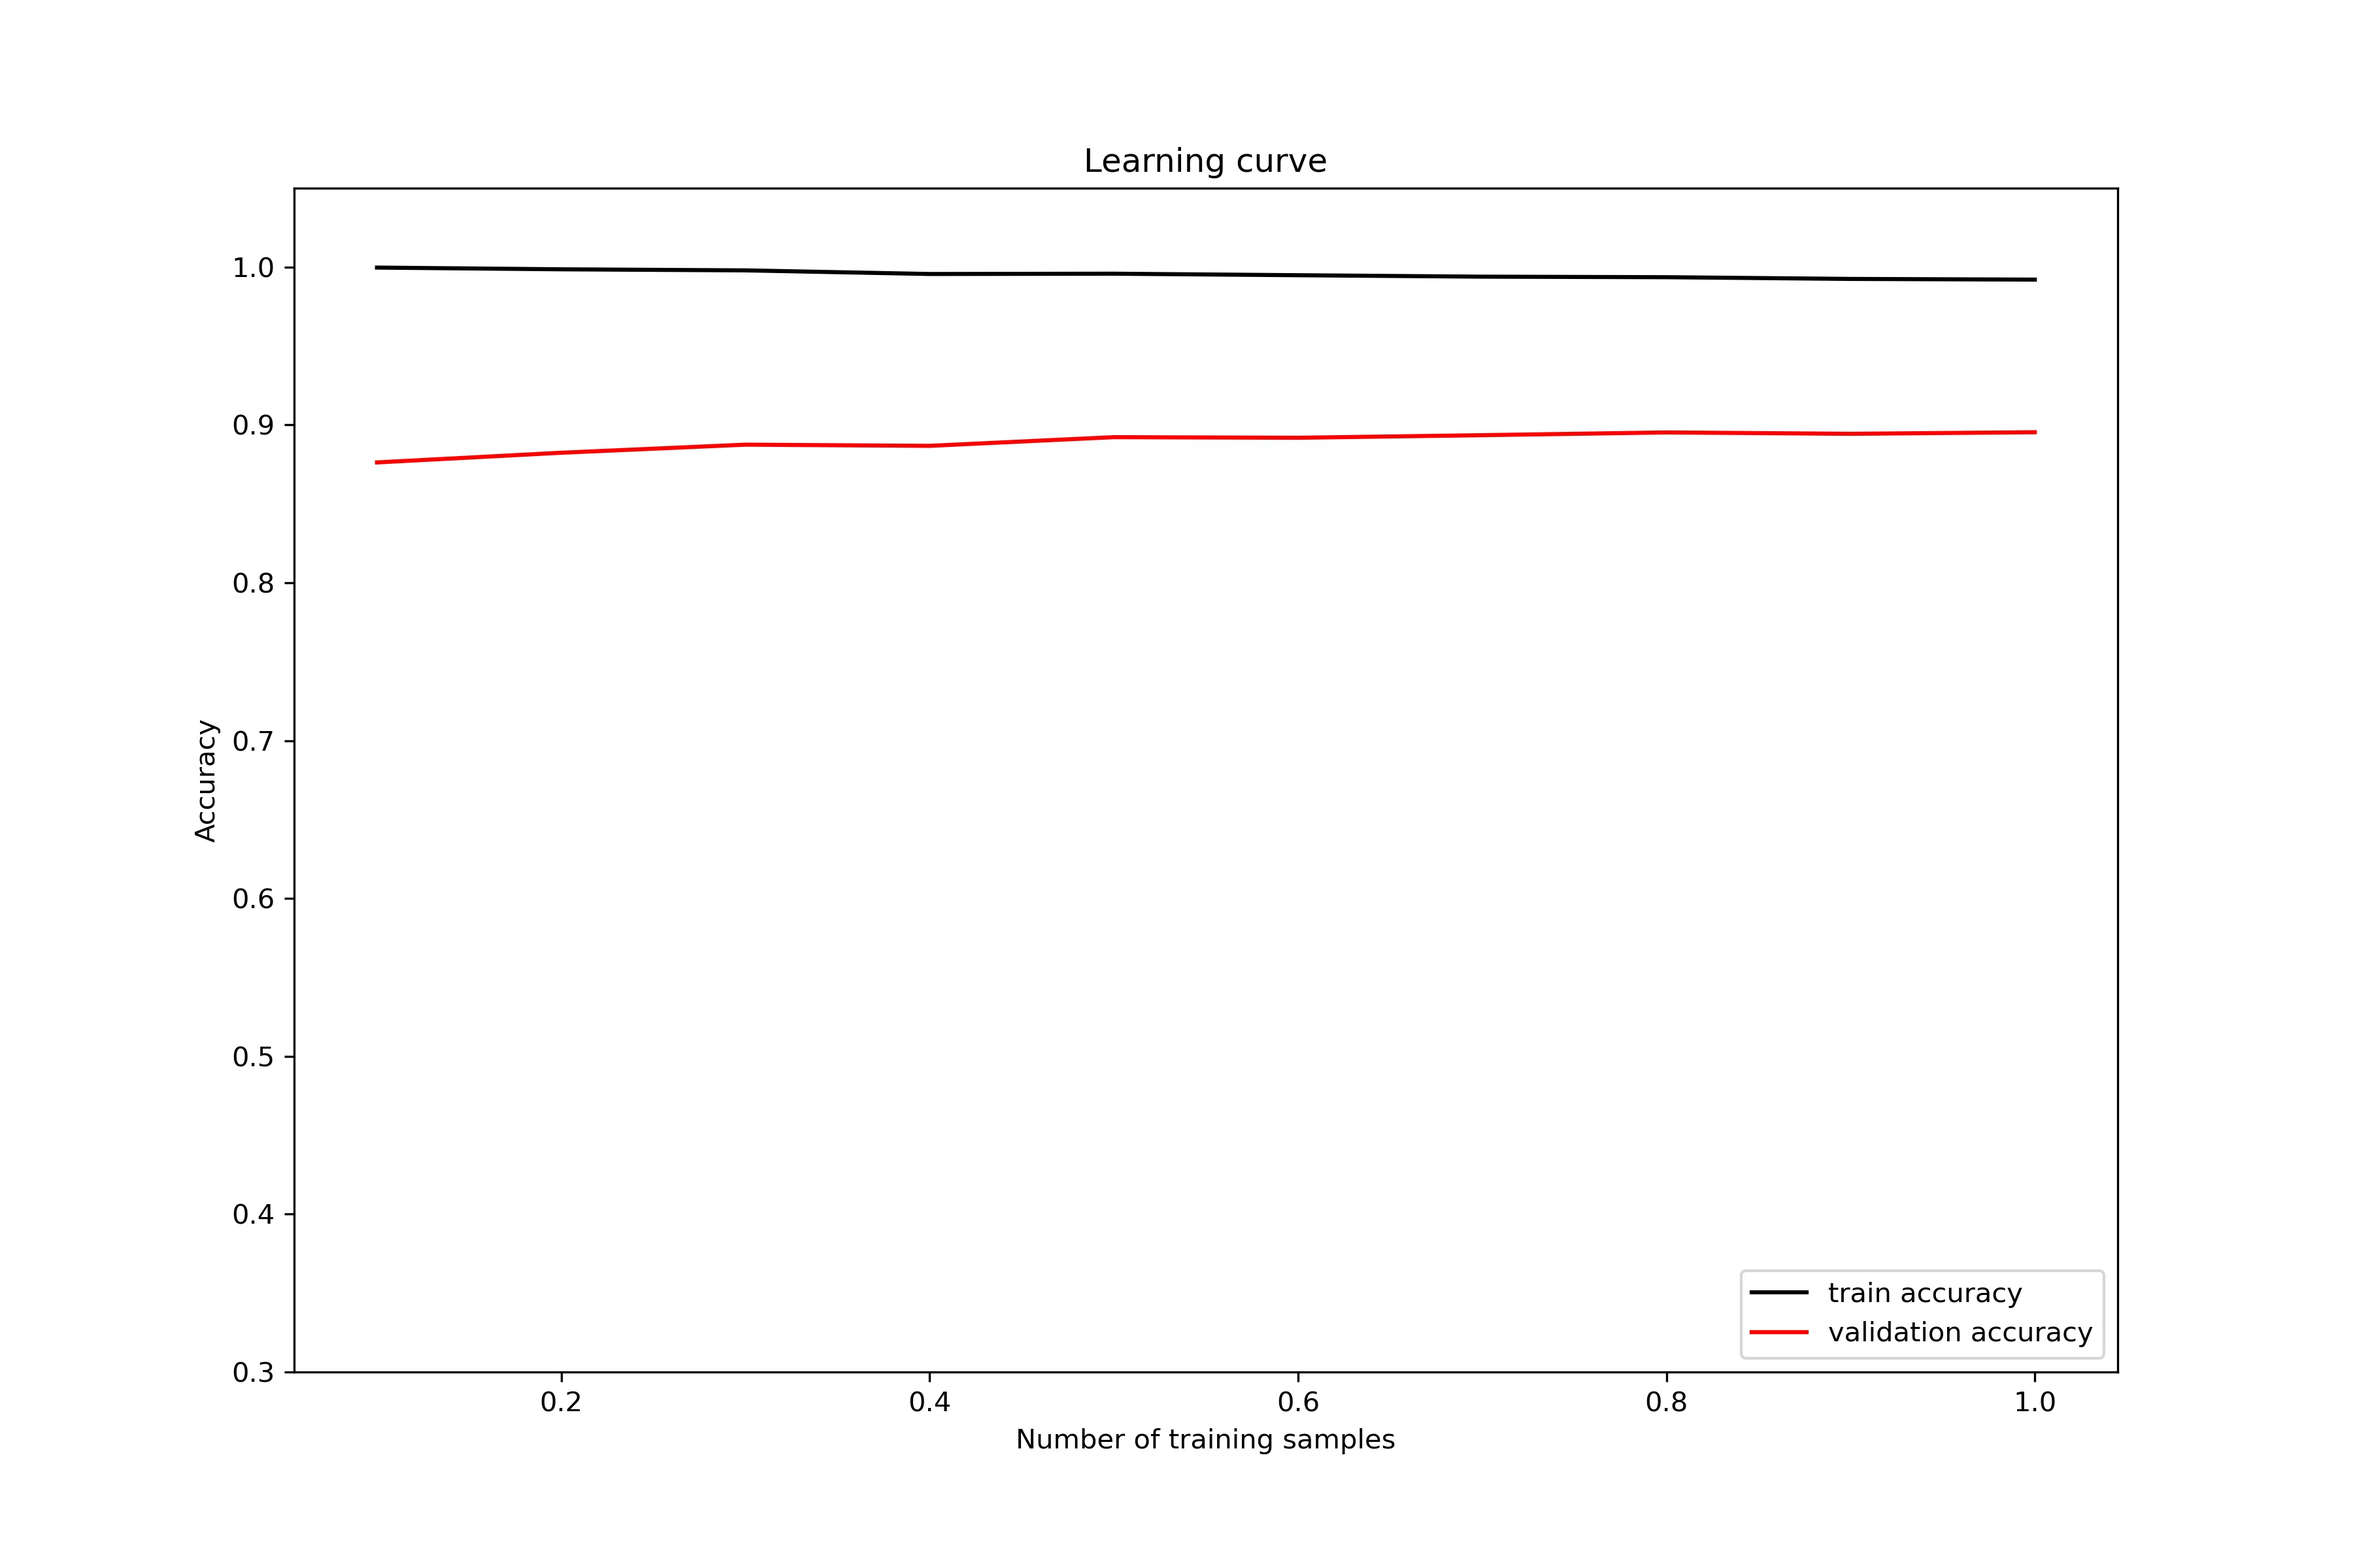
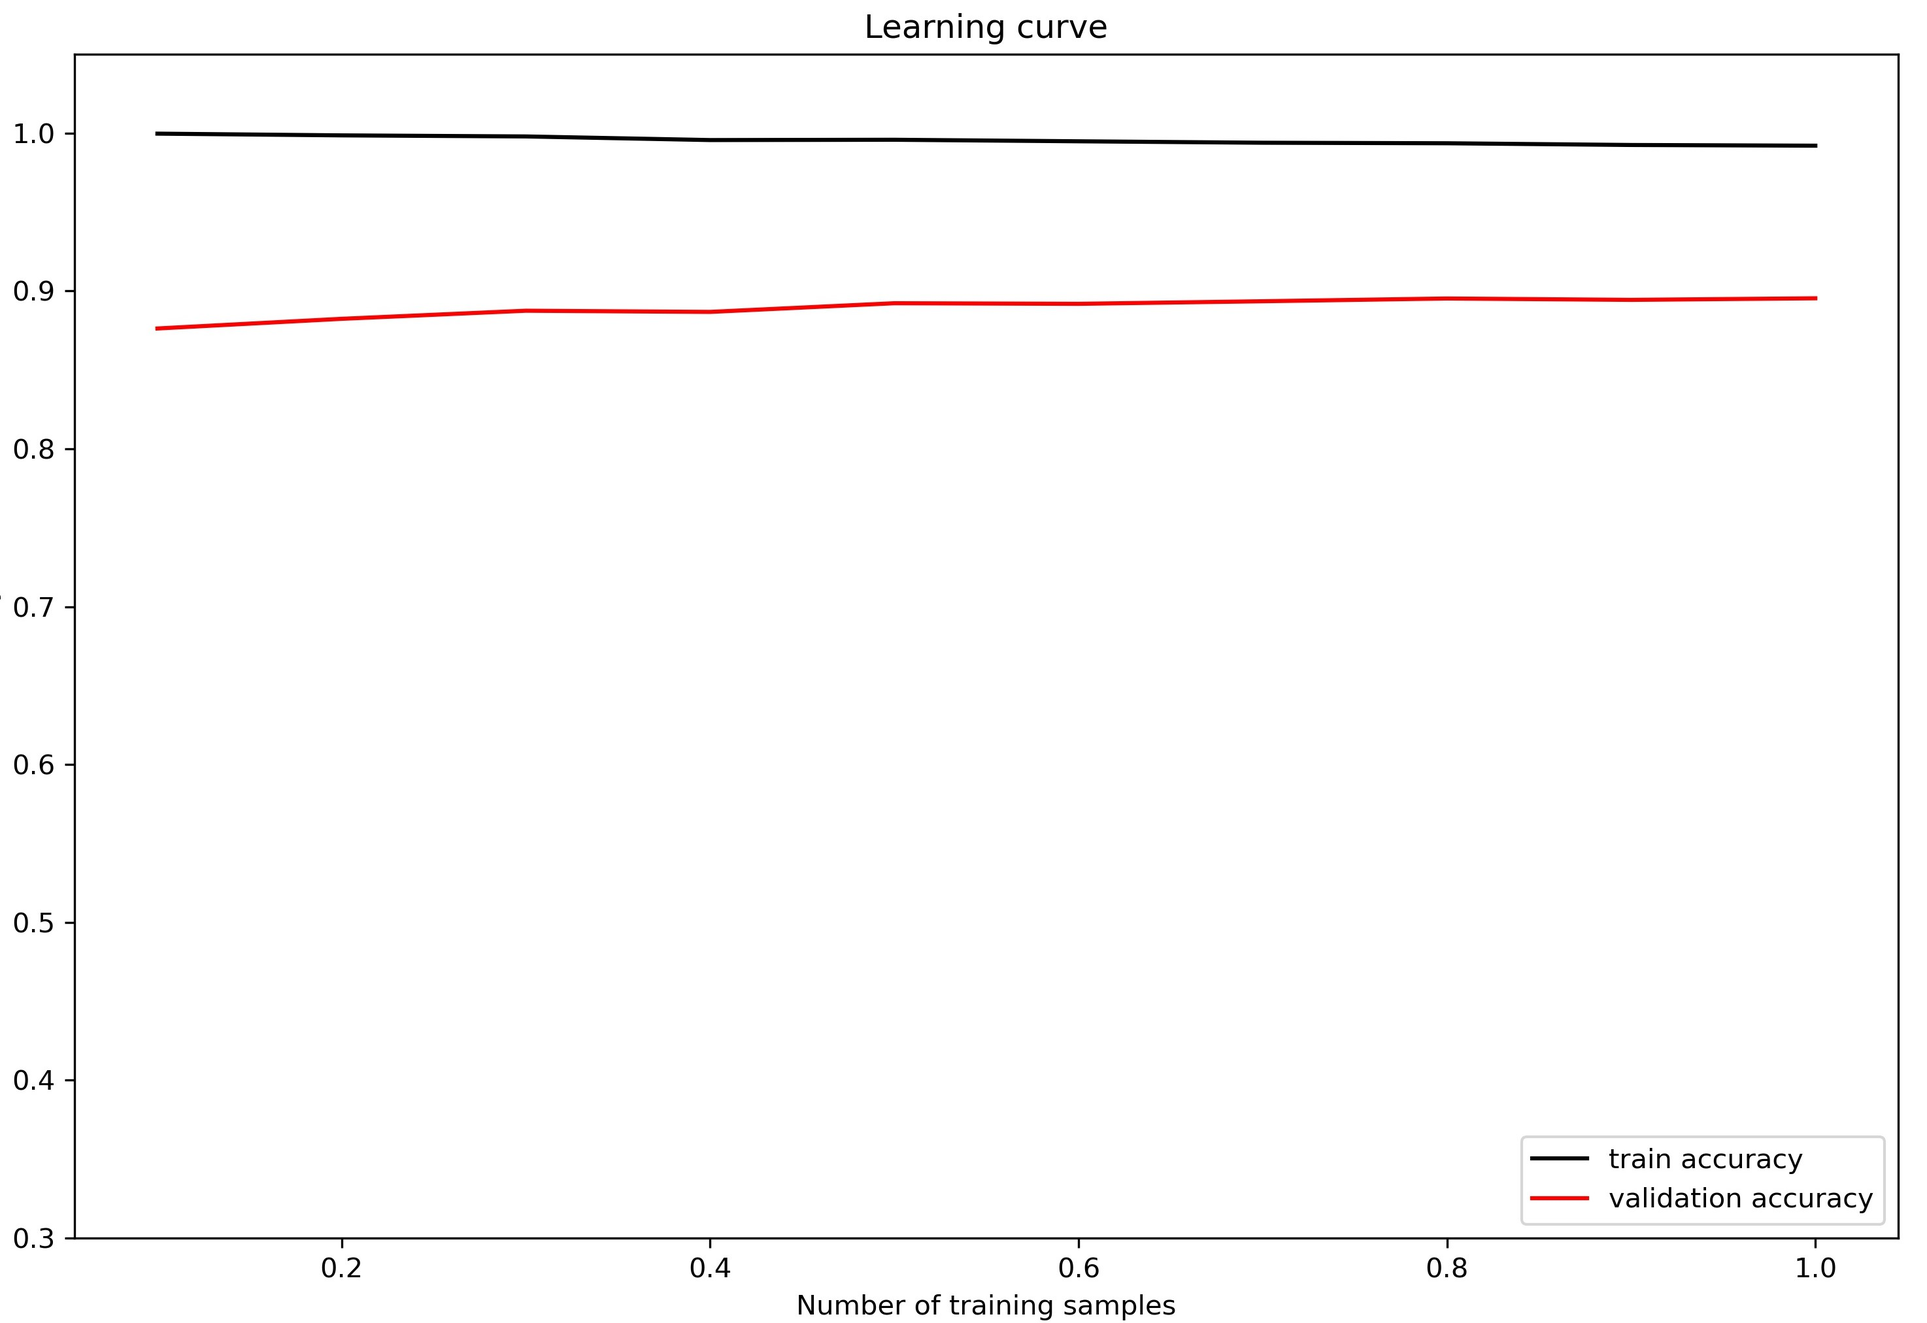
modified README.md

diff --git a/README.md b/README.md
@@ -84,6 +84,7 @@ Feature name | Explanations about the feature
 * As we can see in the figure below, the accuracy score is the highest when we use all the features. But when we use the 5 most important features, its accuracy is close to using all the features. So it shows that if you want to reduce dimensionality, you can choose the 5 most important features (`popularity`, `num_digits`, `Entropy`, `url_length`, `bag_of_words`) and the accuracy will not drop much.
 <div align=center><img src="images/plot_of_accuracy with different features.jpg" height=500, align='middle' style='margin: 0 auto'/>
 </div>
+
 * In the final part, we still use all the features because it is the most accurate and the speed of calculation does vary much when using fewer features.
 
 4. **Learning Curve**:  From the **learning curve**, we can see that our model is **not biased** and **variation** is **not** very **high**.
@@ -115,7 +116,8 @@ Feature name | Explanations about the feature
 
 ### A.2 Explanations about Professor's Comments/Questions
 
-* **Based on your Learning curve, the test accuracy is always 100%, I am wondering if you are making any mistakes. **
+* **Based on your Learning curve, the test accuracy is always 100%, I am wondering if you are making any mistakes.** </br>
+
 **Answer**: 
 * In previous version, we defined our own function to plot the learning curve, but we found the **train accuracy** was always very close to 100% (*the test accuracy is about 85%*) because of some round-off errors, so we gave up this idea and decided to use the predefined method `sklearn.model_selection.learning_curve`.
 * In current version, for the new learning curve, the **train accuracy**(black line) is not always 100% (if we magnify the picture we can see *the value is approximately 98% - 99%*). Maybe there is some over-fitting in our model, but as the test accuracy (red line) is higher that 85%, we think the degree of over-fitting is acceptable.
